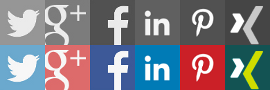
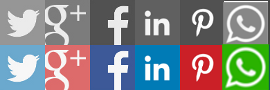
1. Sprite image added. 2. Button style grayscale/colored option added to admin option page.

Changed region(s): [[0.8, 0.0, 1.0, 1.0]]

diff --git a/admin/css/social-share-admin.css b/admin/css/social-share-admin.css
@@ -2,3 +2,84 @@
  * All of the CSS for your admin-specific functionality should be
  * included in this file.
  */
+
+#social-share-sortable label.twitter {
+	display: inline-block;
+	padding-left: 0px;
+	line-height: 40px;
+	background: url('../images/socialshare.png') no-repeat scroll 0 0 transparent;
+	background-position: -1px -48px;
+	width: 44px;
+}
+
+#social-share-sortable label.facebook {
+	display: inline-block;
+	padding-left: 0px;
+	line-height: 40px;
+	background: url('../images/socialshare.png') no-repeat scroll 0 0 transparent;
+	background-position: -90px -48px;
+	width: 44px;
+}
+#social-share-sortable label.linkedin {
+	display: inline-block;
+	padding-left: 0px;
+	line-height: 40px;
+	background: url('../images/socialshare.png') no-repeat scroll 0 0 transparent;
+	background-position: -135px -48px;
+	width: 44px;
+}
+#social-share-sortable label.google_plus {
+	display: inline-block;
+	padding-left: 0px;
+	line-height: 40px;
+	background: url('../images/socialshare.png') no-repeat scroll 0 0 transparent;
+	background-position: -46px -48px;
+	width: 44px;
+}
+#social-share-sortable label.pinterest {
+	display: inline-block;
+	padding-left: 0px;
+	line-height: 40px;
+	background: url('../images/socialshare.png') no-repeat scroll 0 0 transparent;
+	background-position: -179px -48px;
+	width: 44px;
+}
+#social-share-sortable label.whatsapp {
+	display: inline-block;
+	padding-left: 0px;
+	line-height: 40px;
+	background: url('../images/socialshare.png') no-repeat scroll 0 0 transparent;
+	background-position: -223px -48px;
+	width: 44px;
+}
+
+#social-share-sortable label.small-icon {
+	zoom: 0.5;
+}
+
+#social-share-sortable label.medium-icon {
+	zoom: 1;
+}
+
+#social-share-sortable label.large-icon {
+	zoom: 1.5;
+}
+
+#social-share-sortable label.twitter.grayscale {
+    background-position: -1px 0px;
+}
+#social-share-sortable label.facebook.grayscale {
+	background-position: -90px 0px;
+}
+#social-share-sortable label.linkedin.grayscale {
+	background-position: -135px 0px;
+}
+#social-share-sortable label.google_plus.grayscale {
+	background-position: -46px 0px;
+}
+#social-share-sortable label.pinterest.grayscale {
+	background-position: -179px 0px;
+}
+#social-share-sortable label.whatsapp.grayscale {
+	background-position: -223px -2px;
+}

diff --git a/admin/js/social-share-admin.js b/admin/js/social-share-admin.js
@@ -33,7 +33,11 @@
 		$( '#social-share-sortable' ).disableSelection();
 		$( 'body' ).on( 'click', 'input[name="toptal_social_share_options[button_size]"]', function() {
 			var selectedValue = $(this).val();
-			$( 'label.social-share-icon' ).attr( 'class', 'social-share-icon' ).addClass( selectedValue+'-icon' );
-		});
+			$( 'label.social-share-icon' ).removeClass( 'small-icon medium-icon large-icon' ).addClass( selectedValue+'-icon' );
+		} );
+		$( 'body' ).on( 'click', 'input[name="toptal_social_share_options[button_style]"]', function() {
+			var selectedValue = $(this).val();
+			$( 'label.social-share-icon' ).removeClass( 'grayscale colored' ).addClass( selectedValue );
+		} );
 	});
 })( jQuery );

diff --git a/admin/class-social-share-admin.php b/admin/class-social-share-admin.php
@@ -172,6 +172,13 @@ class Social_Share_Admin {
 			$this->plugin_name,
 			'toptal_social_share_social_media_selection_section'
 		);
+		add_settings_field(
+			'social_share_button_style',
+			__( 'Social Share Button Style', 'social-share' ),
+			array( $this, 'social_share_button_style_callback' ),
+			$this->plugin_name,
+			'toptal_social_share_social_media_selection_section'
+		);
 
 		add_settings_field(
 			'social_icon_display_position',
@@ -237,6 +244,7 @@ class Social_Share_Admin {
 		$toptal_social_share_options = get_option( 'toptal_social_share_options' );
 		$social_media_choices = $this->prepare_sorted_social_media_choices();
 		$icon_size = $toptal_social_share_options['button_size'];
+		$icon_style = $toptal_social_share_options['button_style'];
 		switch ( $icon_size ) {
 			case 'small':
 				$label_class = 'social-share-icon small-icon';
@@ -251,13 +259,16 @@ class Social_Share_Admin {
 				$label_class = 'social-share-icon small-icon';
 				break;
 		}
+		if ( 'grayscale' === $icon_style ) {
+			$label_class .= ' grayscale';
+		}
 		$social_media_choices_options = '<td id="social-share-sortable">';
 		foreach ( $social_media_choices as $social_media_key ) {
 			$social_media_value = str_replace( '_', ' ', ucfirst( $social_media_key ) );
 			$social_media_choices_options .= '<div class="ui-state-default">';
 			$checked = in_array( $social_media_key, (array) $toptal_social_share_options['social_media_selection'] ) ? 'checked="checked"' : '';
 			$social_media_choices_options .= '<input type="checkbox" id="' . $social_media_key . '" name="toptal_social_share_options[social_media_selection][]"' . $checked . 'value="' . $social_media_key . '" />';
-			$social_media_choices_options .= '<label for="' . $social_media_key . '" class="' . $label_class . '">' . $social_media_value . '</label> ';
+			$social_media_choices_options .= '<label for="' . $social_media_key . '" class="' . $label_class . ' ' . $social_media_key . '">&nbsp;</label> ';
 			$social_media_choices_options .= '</div>';
 		}
 		$social_media_choices_options .= '</td>';
@@ -285,7 +296,21 @@ class Social_Share_Admin {
 		$social_share_button_size_option .= '</td>';
 		echo $social_share_button_size_option;
 	}
-
+	function social_share_button_style_callback() {
+		$toptal_social_share_options = get_option( 'toptal_social_share_options' );
+		$selected_button_style = empty( $toptal_social_share_options['button_style'] ) ? 'colored' : $toptal_social_share_options['button_style'];
+		$social_share_button_style_choices = array(
+			'colored' => __( 'Colored', 'social-share' ),
+			'grayscale' => __( 'Gray Scale', 'social-share' ),
+		);
+		$social_share_button_style_option = '<td>';
+		foreach ( $social_share_button_style_choices as $button_style_key => $button_style_val ) {
+			$social_share_button_style_option .= '<input type="radio" name="toptal_social_share_options[button_style]" id="' . $button_style_key . '" value="' . $button_style_key . '" ' . checked( $selected_button_style, $button_style_key, false ) . '/>';
+			$social_share_button_style_option .= '<label for="' . $button_style_key . '">' . $button_style_val . '</label> ';
+		}
+		$social_share_button_style_option .= '</td>';
+		echo $social_share_button_style_option;
+	}
 	/**
 	 * Callback for social media position
 	 *
